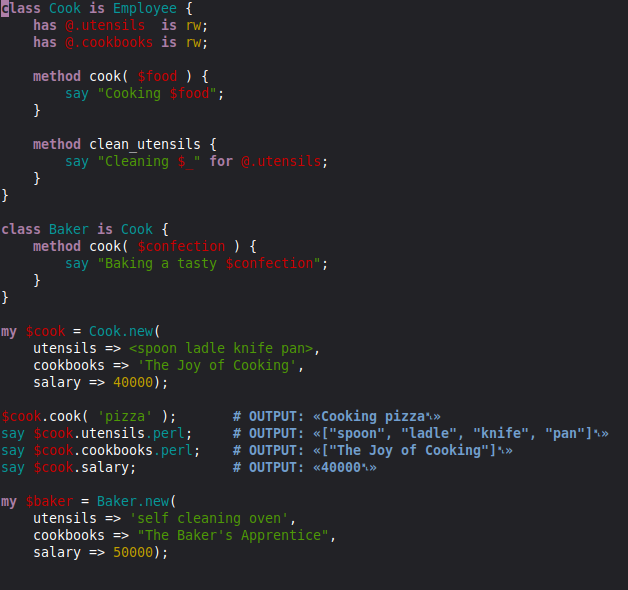
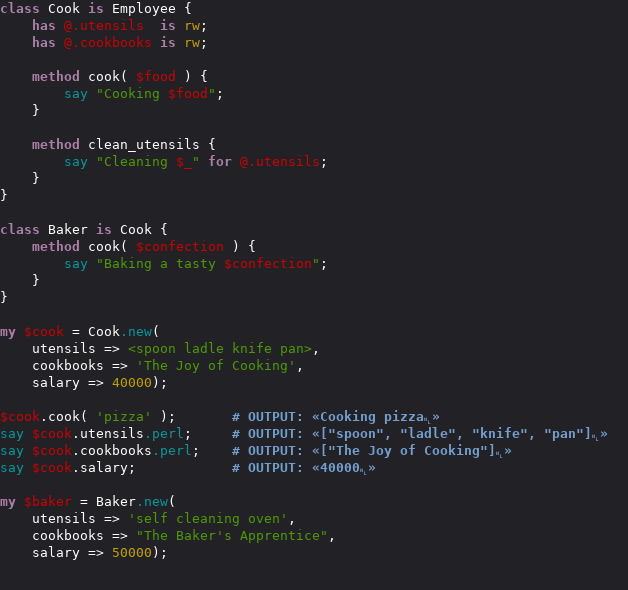
Take word lists from the Raku docs and refine the rules
The lists of types, subs, methods, keywords, traits, pragmas, phasers,
native types, word operators and the Test and NativeCall names are now
generated from the Raku documentation (Raku/doc a0a48fa of 2026-10-06)
instead of from Rakudo's internals. Undocumented internals are gone.

Highlighting changes:
- Only builtin types are painted; capitalised names are no longer
  guessed to be types.
- MAIN, BUILD, TWEAK, DESTROY, TOP and USAGE are only painted where
  they are declared.
- Word operators (eq, xx, div, and) and meta-operators ([+], Z~,
  >>+<<, ».method) are painted.
- A word after a dot is a method call, not a keyword or a phaser.
- More quotes: q{ }, q[ ], doubled brackets, q! !, smart single
  quotes. q and Q do not show variables.
- More regexes: m{ }, rx[ ], s:g[ ], s{ } = . A character class may
  hold a slash.
- Heredocs end at their own terminator for the usual names, accept
  negated adverbs, and close when commented out or inside a string.
  Code after the opener is no longer painted as a string.
- A comment may directly follow ";", ")" or "}".
- Type smileys (Int:D), Pod headings and Pod formatting codes are
  painted. TEMP is a phaser.
- Legacy extensions (.p6, .pl6, .pm6, .pod6, .t6) are dropped.

The README lists the new limits, and the screenshots are redrawn.

diff --git a/README.md b/README.md
@@ -5,8 +5,6 @@ Raku Syntax Highlighting for Nano
 1. Place ```raku.nanorc``` somewhere (usually under ```~/.nano```)
 2. Add the following line ```include "~/.nano/raku.nanorc"``` to your ```~/.nanorc``` file
 
-Files with the legacy extensions (.p6, .pl6, .pm6, .pod6, .t6) are highlighted too.
-
 The colours come from your terminal's palette, so they follow its theme, light or dark.
 
 ## Screenshots
@@ -19,13 +17,20 @@ The colours come from your terminal's palette, so they follow its theme, light o
 ## Known limits
 Nano highlights with regular expressions only, so a few things cannot be done properly:
 
-- A `#` after a space inside a string starts a comment.
+- A `#` after a space, `;`, `)` or `}` inside a string starts a comment. In a comment that directly follows `;`, `)` or `}`, that character gets the colour of the comment.
 - An apostrophe inside an identifier (`doesn't-work`) starts a string.
 - Nested brackets in embedded comments end at the first closing bracket.
 - A `/regex/` without a prefix is only recognised after `~~`, an opening bracket, a comma, `= `, `: `, some keywords, or at the start of a line. Brackets and commas inside such a regex are left unpainted.
-- Heredocs are recognised when the terminator is in capitals (`END`, `EOF`).
+- Heredocs are recognised when the terminator is in capitals. With `END`, `EOF`, `EOT`, `EOS`, `CODE`, `SOURCE`, `TEXT` and `HERE` they end at that terminator; with any other one they end at the first line that is a single word in capitals.
+- Code after a heredoc opener on the same line is left unpainted.
 - Heredocs, Pod and embedded comments also start inside strings and comments, as multi-line rules cannot see what was painted before them.
-- `< a b c >` with spaces inside the brackets is not painted, as it cannot be told apart from two comparisons. Neither are `q[...]` and `q{...}`, which look like subscripts of a variable named `q`.
+- `< a b c >` with spaces inside the brackets is not painted, as it cannot be told apart from two comparisons.
+- The subscript of a variable named `q`, `m` or `s` (`$m[0]`) is left unpainted, so that it is not taken for a quote or a regex.
+- `s[...]` and `s{...}` without an adverb only count as a substitution when followed by ` = `.
+- Quotes and regexes in brackets end at the first closing bracket, unless the brackets are doubled (`q{{ ... }}`).
+- A variable inside `q{...}` or `Q[...]` is still painted when the quote directly follows a bracket, as in `(q{$x})`.
+- Pod formatting codes (`B<...>`, `C<...>`) are only painted after a space or at the start of a line, and also where they appear in code or in a string.
+- Meta-operators made with `R`, `X`, `Z` and `S` (`Z~`, `X+`, `Zmax`) need a space on both sides.
 
 ## License
 GPL 3 or later
